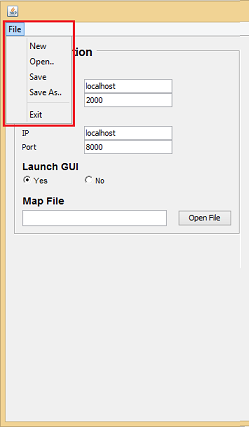
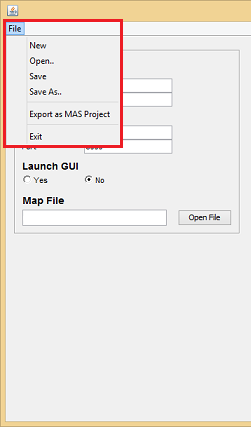
Updated documentation
Former-commit-id: b191c4f0ef4ac5ada5626f5952aa1b245aef0963 [formerly b851c4a3bb32bfc304ab57a46ffd3d2664ee1ce0]
Former-commit-id: 133c254fb9e55d6922e05c88bebc51c4210843e8

diff --git a/doc/group3/Documentation/Scenario Editor.tex b/doc/group3/Documentation/Scenario Editor.tex
@@ -25,7 +25,7 @@ This document describes how to make use of the Scenario Editor (Figure 1). When 
 \end{figure}
 
 \section{General use}
-At the top of the editor you can see a $File$ menu. If you click on that, you get the options to create a new configuration, save your configuration, open a configuration and to exit the editor.
+At the top of the editor you can see a $File$ menu. If you click on that, you get the options to create a new configuration,open a configuration, save your configuration, export your configuration and to exit the editor.
 
 On the left side of the editor you can configure a scenario as you like. The Client IP, the Client Port, the Server IP and the Server Port should already contain the default values. You can change them if you need to. You can also indicate whether you want to open a GUI. If you have a Map file you want to use, you can import it by selecting the $Open$ $file$ button at the right section.
 
@@ -42,14 +42,17 @@ A picture of the configuration panel can be found in figure 2.
 \subsection{New configuration file}
 To create a new configuration file, select $File$ $\to$ $New$ in the menu bar. You will now get a new configuration with the default values. Creating a new configuration will reset all previous changes you have made, so make sure you save your current configuration first if you want to keep it.
 
-\subsection{Save configuration file}
-To save your configuration file, select $File$ $\to$ $Save$ in the menu bar. If your file hasn't been saved before, a screen will pop up where you can select the folder you want to save your file to and enter the file name you want to use. Once you have selected the right folder and entered the file name, click the $Save$ button.
-
-\subsection{Save configuration file as}
-To save your configuration in a new file, select $File$ $\to$ $Save$ $As$ in the menu bar. A screen will pop up where you can select the folder you want to save your file to and enter the file name you want to use. Once you have selected the right folder and entered the file name, click the $Save$ button.
-
 \subsection{Open configuration file}
 To open an existing configuration file, select $File$ $\to$ $Open$ in the menu bar. A screen will pop up where you can select the folder where the configuration file is saved to. Once you have selected the right folder, select the file and click the $Open$ button.
+
+\subsection{Save configuration file}
+To save your configuration file, select $File$ $\to$ $Save$ in the menu bar. If your file hasn't been saved before, a screen will pop up where you can select the folder you want to save your configuration file to and enter the file name you want to use. Once you have selected the right folder and entered the file name, click the $Save$ button.
+
+\subsection{Save configuration file as}
+To save your configuration in a new file, select $File$ $\to$ $Save$ $As$ in the menu bar. A screen will pop up where you can select the folder you want to save your configuration file to and enter the file name you want to use. Once you have selected the right folder and entered the file name, click the $Save$ button.
+
+\subsection{Export configuration to mas2g}
+To export your configuration to mas2g, you have to have saved your configuration first. Once you have done that, select $File$ $\to$ $Export$ $as$ $MAS$ $project$ in the menu bar. A screen will pop up where you can select the folder you want to export the configuration to and the file name you want to use. Once you have selected the right folder and entered the file name, click the $Export$ $MAS$ $project$ button.
 
 \section{Entity Panel}
 The entity panel exists of 2 parts; the top part shows the bot options and the bottom part shows the e-partner options. A picture of the entity panel can be found in figure 3.
@@ -61,35 +64,35 @@ The entity panel exists of 2 parts; the top part shows the bot options and the b
 \end{figure}
 \subsection{Create new bot}
 To create a new bot, click the $New$ $Bot$ button. A new bot will appear in the bot list.\\
-If you want to create a standard bot (which already has default values), click on the arrow next to the $New$ $Bot$ button. A menu will drop down where you can select one of the standard bots. If you click on a bot, the bot will appear in the bot list.
+If you want to create a standard bot (which already has default values), click on the arrow next to the $New$ $Bot$ button. A menu will drop down where you can select one of the standard bots. If you click on one of the standard bots, the bot will appear in the bot list.
 %The Bot Store will open in a new window where you can create your bot.
 
 \subsection{Modify bot}
-To modify a bot, select the bot you want to modify in the bot list and click the $Modify$ $Bot$ button. The Bot Store will open in a new window where you can modify your bot.
+To modify a bot, select the bot you want to modify in the bot list and click the $Modify$ $Bot$ button. The Bot Store will open in a new window where you can modify the properties of the bot.
 
 \subsection{Rename bot}
-To rename a bot, you can either use the $Modify$ $Bot$ button to change it in the Bot Store, or you can change it in the scenario editor. To rename in the scenario editor, select the bot you want to rename in the list with bots. Double click the bots name and enter a new name. %Enter the new name in the textfield above the $Rename$ $bot$ button and click the $Rename$ $bot$ button.
+To rename a bot, you can either use the $Modify$ $Bot$ button to rename in the Bot Store, or you can rename in the Scenario Editor. To rename in the Scenario Editor, select the bot you want to rename in the list with bots. Double click the its name and enter a new name.
 
 \subsection{Change controller type}
-To change how a bot is controlled, you can either use the $Modify$ $Bot$ button to change it in the Bot Store, or you can change it in the scenario editor. To change the controller type in the scenario editor, select the bot you want to change and click on its $Controller$ column. You should now be able to choose the controller type.
+To change how a bot is controlled, you can either use the $Modify$ $Bot$ button to change it in the Bot Store, or you can change it in the Scenario Editor. To change the controller type in the Scenario Editor, select the bot you want to change and click on its controller type. You should now be able to choose the controller type.
 
-\subsection{Change the amount of entities of a bot type}
-To change how many entities of a type of bot you want, you can either use the $Modify$ $Bot$ button to change it in the Bot Store, or you can change it in the scenario editor. To change the entity amount in the scenario editor, select the bot that you want to change the amount of. Now double click the amount given, and enter a new number.
+\subsection{Change the amount of entities of a bot}
+To change how many entities of a type of bot you want, you can either use the $Modify$ $Bot$ button to change it in the Bot Store, or you can change it in the Scenario Editor. To change the entity amount in the Scenario Editor, select the bot that you want to change the amount of. Now double click the amount given, and enter a new number.
 
 \subsection{Delete bot}
 To delete a bot, select the bot you want to delete in the list with bots and click the $Delete$ $Bot$ button.
 
 \subsection{Create new e-partner}
-To create a new e-partner, click the $New$ $E$-$partner$ button. A new e-partner will appear in the e-partner list.%The Bot Store will open in a new window where you can create your bot.
+To create a new e-partner, click the $New$ $E$-$partner$ button. A new e-partner will appear in the e-partner list.
 
 \subsection{Modify e-partner}
-To modify an e-partner, select the e-partner you want to modify in the e-partner list and click the $Modify$ $E$-$partner$ button. A new window will open where you can modify the properties of the e-partner.
+To modify an e-partner, select the e-partner you want to modify in the e-partner list and click the $Modify$ $E$-$partner$ button. The E-partner Store will open in a new window where you can modify the properties of the e-partner.
 
 \subsection{Rename e-partner}
-To rename an e-partner, select the e-partner you want to rename in the list with e-partners. Double click the e-partners name and enter a new name. %Enter the new name in the textfield above the $Rename$ $bot$ button and click the $Rename$ $bot$ button.
+To rename an e-partner, you can either use the $Modify$ $E-partner$ button to rename in the E-partner Store, or you can rename in the Scenario Editor. To rename in the Scenario Editor, select the e-partner you want to rename in the list with e-partners. Double click its name and enter a new name.
 
-\subsection{Change the amount of entities of an e-partner type}
-To change how many entities of a type of e-partner you want, select the e-partner that you want to change the amount of. Now double click the amount given, and enter a new number.
+\subsection{Change the amount of entities of an e-partner}
+To change how many entities of a type of e-partner you want, you can either use the $Modify$ $E-partner$ button to change it in the E-partner Store, or you can change it in the Scenario Editor. To change the amount in the Scenario Editor, select the e-partner that you want to change the amount of. Now double click the amount given, and enter a new number.
 
 \subsection{Delete e-partner}
 To delete an e-partner, select the e-partner you want to delete in the e-partner list and click the $Delete$ $E$-$partner$ button.
